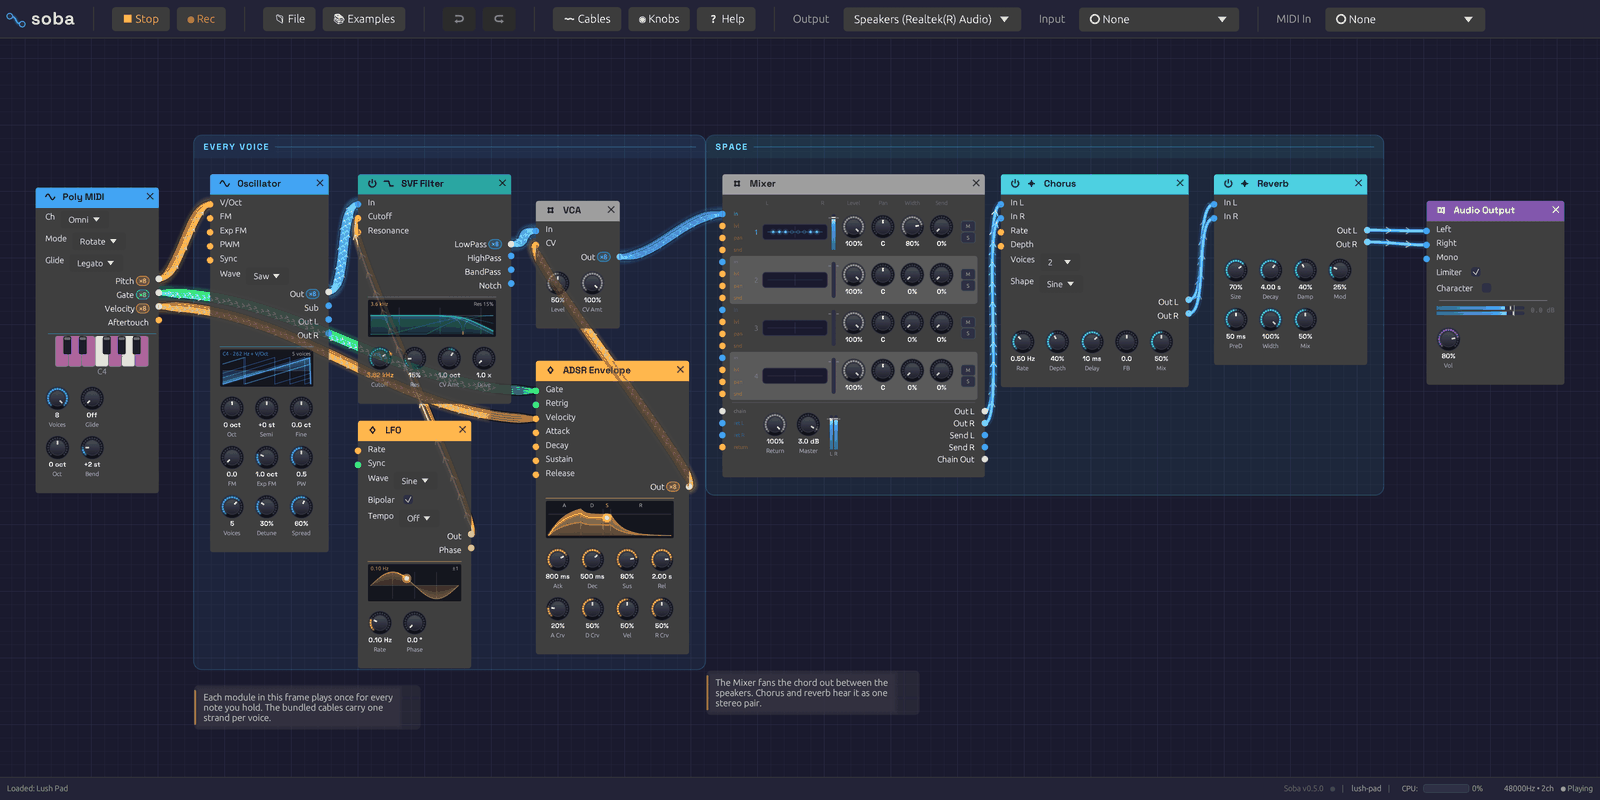
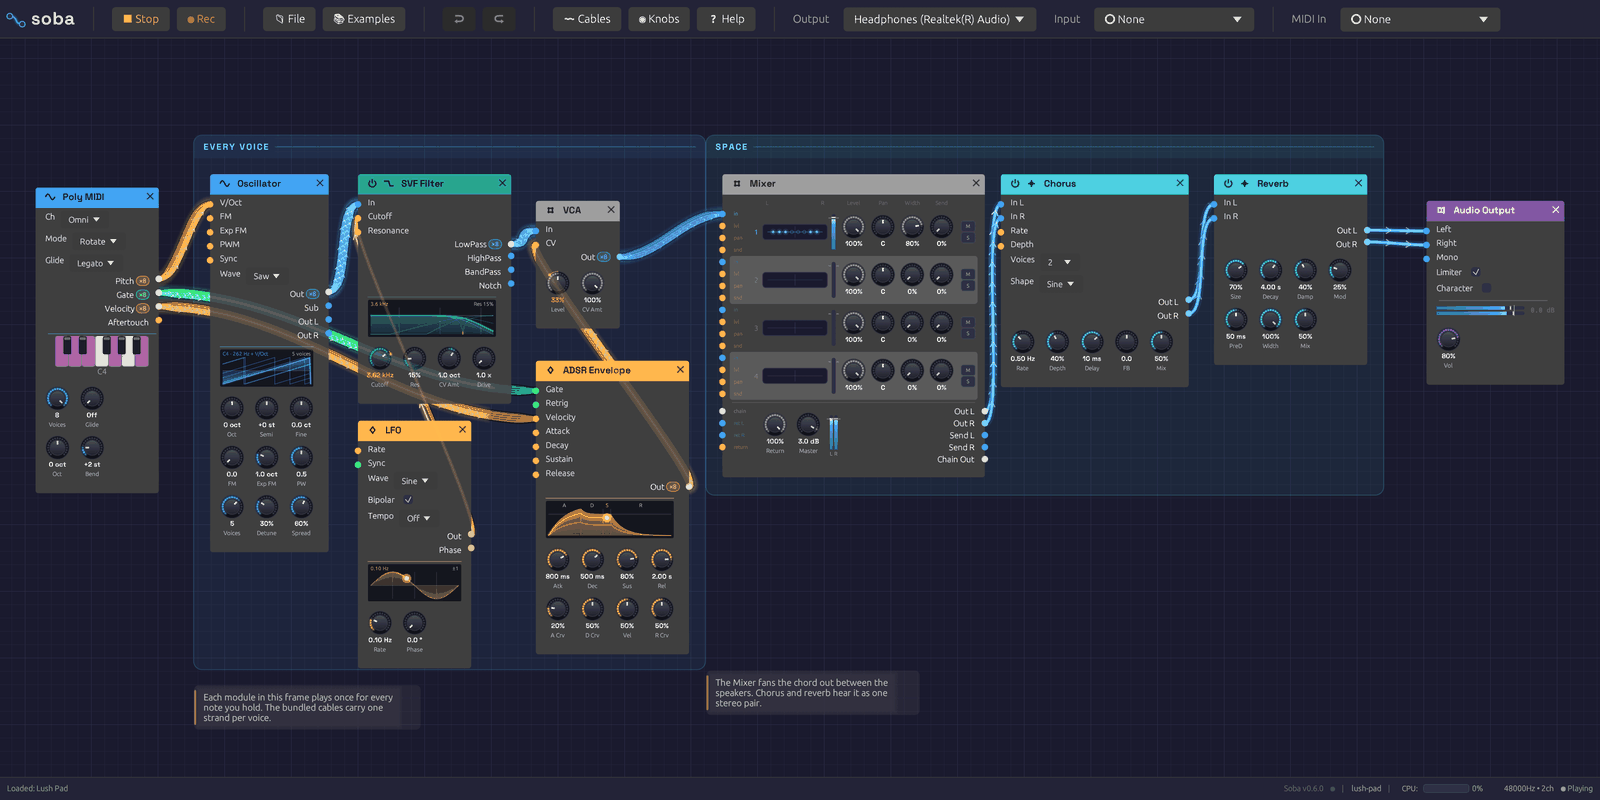
[Phase 14] Knobs show CV that arrives through a jack of another name
- knob_cv::jack names the jack a knob's CV comes through when it isn't
  the knob's own: VCA Level (CV), Oscillator Pulse Width (PWM), and Drum
  Tone and Snap (Accent: a soft hit is darker and less snappy)
- New laws: Gain/GainBy (the VCA's level * (1 - amt + amt * cv)) and Dim
  (the drum's tone - 0.25 * (1 - accent)); a test checks each against
  drum.rs's own Voicing
- engine_sync monitors a ConnectionOnly jack whenever a knob's law names
  it, so the knob gets the arc, bead, swath and orange readout
- Audited the rest: V/Oct, FM depths and ADSR Velocity Amount scale or
  pick rather than move a knob, so they stay as they are
- Manual: VCA, Oscillator and Drum pages say what the knob shows; VCA
  module image re-shot with an envelope holding a note; two recipe and
  three interface pictures re-shot

Closes #221

Claude-Session: https://claude.ai/code/session_01V5ZeoupduMHGPK9n9JSG9z

diff --git a/src/graph/knob_cv.rs b/src/graph/knob_cv.rs
@@ -9,6 +9,10 @@
 //! Most laws are a line of arithmetic, copied from the module's process loop
 //! (each entry names the line it mirrors). A module that already reports what
 //! CV has made of a parameter is read instead.
+//!
+//! A knob's CV usually comes in through its own jack, but not always: a VCA's
+//! CV jack scales its Level, an Oscillator's PWM jack moves its Pulse Width.
+//! [`jack`] names those, and the engine watches them for the knob's sake.
 
 use egui_node_graph2::NodeId;
 
@@ -31,6 +35,13 @@ pub enum CvLaw {
     OctavesBy(&'static str),
     /// `base * (1 + scale * cv)`
     Stretch { scale: f32 },
+    /// `base * (1 - amount + amount * cv)`, `cv` held to 0..1: at 0 it takes
+    /// off `amount` of the knob, at 1 none of it
+    Gain { amount: f32 },
+    /// `Gain`, the amount set by another knob: a VCA's CV Amount
+    GainBy(&'static str),
+    /// `base - by * (1 - cv)`, `cv` held to 0..1: at 0 it takes `by` off
+    Dim { by: f32 },
     /// The module reports it, at this place in its readout
     Readout(usize),
 }
@@ -65,6 +76,22 @@ pub fn law(module_id: &str, param: &str) -> Option<CvLaw> {
         ("fx.chorus", "Depth") => Add { scale: 0.5 },
         ("fx.tape", "Wow") => Add { scale: 1.0 },
         ("fx.vocoder", "Formant") => Readout(Vocoder::READOUT_FORMANT),
+        // Knobs whose CV comes through another jack (see `jack`)
+        ("util.vca", "Level") => GainBy("CV Amount"),      // vca.rs: level * (1 - amt + cv * amt)
+        ("osc.sine", "Pulse Width") => Add { scale: 0.4 }, // oscillator.rs: width + 0.4 pwm
+        // drum.rs Voicing::new: a softer hit is darker and less snappy
+        ("source.drum", "Tone") => Dim { by: 0.25 },
+        ("source.drum", "Snap") => Gain { amount: 0.5 },
+        _ => return None,
+    })
+}
+
+/// The jack a knob's CV comes through, when it isn't the knob's own.
+pub fn jack(module_id: &str, param: &str) -> Option<&'static str> {
+    Some(match (module_id, param) {
+        ("util.vca", "Level") => "CV",
+        ("osc.sine", "Pulse Width") => "PWM",
+        ("source.drum", "Tone" | "Snap") => "Accent",
         _ => return None,
     })
 }
@@ -85,11 +112,19 @@ pub fn effective(
         CvLaw::Octaves => base * cv.exp2(),
         CvLaw::OctavesBy(depth) => base * (cv * super::clock_display::number(graph, node_id, depth)?).exp2(),
         CvLaw::Stretch { scale } => base * (1.0 + scale * cv),
+        CvLaw::Gain { amount } => gain(base, amount, cv),
+        CvLaw::GainBy(amount) => gain(base, super::clock_display::number(graph, node_id, amount)?, cv),
+        CvLaw::Dim { by } => base - by * (1.0 - cv.clamp(0.0, 1.0)),
         CvLaw::Readout(index) => {
             let engine_id = user_state.get_engine_node_id(node_id)?;
             user_state.readouts.get(&engine_id)?.values[index]
         }
     })
+}
+
+/// `base * (1 - amount + amount * cv)`, `cv` held to 0..1.
+fn gain(base: f32, amount: f32, cv: f32) -> f32 {
+    base * (1.0 - amount + amount * cv.clamp(0.0, 1.0))
 }
 
 #[cfg(test)]
@@ -98,7 +133,7 @@ mod tests {
     use crate::dsp::Readout;
     use crate::graph::node_data::KnobInputMode;
     use crate::graph::{create_editor_state, AllNodeTemplates, SynthNodeTemplate, SynthValueType};
-    use egui_node_graph2::{NodeTemplateIter, NodeTemplateTrait};
+    use egui_node_graph2::{InputParamKind, NodeTemplateIter, NodeTemplateTrait};
 
     /// The value of a node's Number parameter `name`.
     fn base(graph: &SynthGraph, node_id: NodeId, name: &str) -> f32 {
@@ -168,6 +203,56 @@ mod tests {
             *value = -2.0;
         }
         assert!((cutoff(&graph) - 250.0).abs() < 0.01, "two octaves down with the depth turned negative");
+    }
+
+    #[test]
+    fn every_jack_named_is_on_its_module_with_a_law() {
+        // A misspelt jack would leave its knob showing nothing, silently
+        let mut user_state = SynthGraphState::new();
+        let mut named = 0;
+        for template in AllNodeTemplates.all_kinds() {
+            let data = template.user_data(&mut user_state);
+            let (graph, _, node_id) = one(data.module_id);
+            for knob in &data.knob_params {
+                let Some(jack) = jack(data.module_id, &knob.param_name) else { continue };
+                named += 1;
+                let input = graph[node_id].inputs.iter().find(|(name, _)| name == jack);
+                let is_jack = input.is_some_and(|(_, id)| matches!(graph.get_input(*id).kind, InputParamKind::ConnectionOnly));
+                assert!(is_jack, "{} has no {jack} jack for {}", data.module_id, knob.param_name);
+                assert!(law(data.module_id, &knob.param_name).is_some(), "{} {} has a jack but no law", data.module_id, knob.param_name);
+            }
+        }
+        assert!(named >= 4, "the VCA's, the Oscillator's and the Drum's at least");
+    }
+
+    #[test]
+    fn a_vca_level_follows_its_cv_by_the_cv_amount() {
+        let (mut graph, user_state, node_id) = one("util.vca");
+        let level = |graph: &SynthGraph, cv| effective("util.vca", "Level", 0.8, cv, node_id, graph, &user_state).unwrap();
+        assert_eq!(base(&graph, node_id, "CV Amount"), 1.0);
+        assert!((level(&graph, 0.5) - 0.4).abs() < 1e-6, "at full amount the CV scales the level");
+        assert_eq!(level(&graph, 1.5), 0.8, "CV above 1 opens it no further");
+        assert_eq!(level(&graph, -1.0), 0.0, "nor below 0 closes it further");
+
+        let (_, amount) = *graph[node_id].inputs.iter().find(|(name, _)| name == "CV Amount").unwrap();
+        if let SynthValueType::Number { value, .. } = &mut graph.inputs[amount].value {
+            *value = 0.25;
+        }
+        assert!((level(&graph, 0.0) - 0.6).abs() < 1e-6, "a quarter amount takes off a quarter at most");
+    }
+
+    #[test]
+    fn a_soft_drum_hit_is_darker_and_less_snappy() {
+        // As drum.rs voices it
+        use crate::modules::drum::{DrumType, Strike, Voicing};
+        let (graph, user_state, node_id) = one("source.drum");
+        let at = |param, base, cv| effective("source.drum", param, base, cv, node_id, &graph, &user_state).unwrap();
+        for accent in [0.0, 0.3, 1.0] {
+            let strike = Strike { tone: 0.6, snap: 0.8, accent, ..Strike::default() };
+            let voicing = Voicing::new(DrumType::Kick, strike);
+            assert!((at("Tone", 0.6, accent) - voicing.tone).abs() < 1e-6, "tone at accent {accent}");
+            assert!((at("Snap", 0.8, accent) - voicing.snap).abs() < 1e-6, "snap at accent {accent}");
+        }
     }
 
     #[test]

diff --git a/src/graph/node_data.rs b/src/graph/node_data.rs
@@ -855,6 +855,14 @@ impl SynthNodeData {
                     None
                 };
 
+                // CV that reaches the knob through a jack of another name: a
+                // VCA's CV moving its Level. The knob stays the hand's to turn
+                let through_cv = super::knob_cv::jack(self.module_id, &knob_param.param_name)
+                    .and_then(|jack| node.inputs.iter().find(|(name, _)| name == jack))
+                    .filter(|(_, jack)| graph.iter_connections().any(|(input, _)| input == *jack))
+                    .and_then(|(_, jack)| super::port_mapping::input_port_index(graph, node_id, *jack))
+                    .and_then(|port| user_state.get_input_value(engine_node_id?, port));
+
                 // Get MIDI mapping info for this parameter
                 let midi_mapping = engine_node_id.and_then(|eid|
                     user_state.get_midi_mapping(eid, current_param_index));
@@ -891,10 +899,12 @@ impl SynthNodeData {
                         // Where the CV has carried a knob it modulates: the
                         // knob draws its way there, which says it's patched
                         // better than the dot does, so the dot gives way
-                        let modulated = match (&input.value, signal_value) {
-                            (SynthValueType::Number { value, .. }, Some(cv))
-                                if knob_param.input_mode == KnobInputMode::Modulatable && takeover.is_none() =>
-                            {
+                        let cv = match knob_param.input_mode {
+                            KnobInputMode::Modulatable => signal_value,
+                            _ => through_cv,
+                        };
+                        let modulated = match (&input.value, cv) {
+                            (SynthValueType::Number { value, .. }, Some(cv)) if takeover.is_none() => {
                                 super::knob_cv::effective(self.module_id, &knob_param.param_name, *value, cv, node_id, graph, user_state)
                             }
                             _ => None,

diff --git a/src/app/engine_sync.rs b/src/app/engine_sync.rs
@@ -16,7 +16,7 @@ use std::collections::{BTreeMap, HashMap};
 use egui_node_graph2::{InputId, NodeId};
 
 use crate::engine::{EngineCommand, NodeId as EngineNodeId};
-use crate::graph::{groups, port_mapping, SynthGraph, SynthGraphState};
+use crate::graph::{groups, knob_cv, port_mapping, SynthGraph, SynthGraphState};
 
 /// Commands that create a node's module and start monitoring the outputs it
 /// shows (LEDs, lit ports, displays). Parameter values follow with the next
@@ -87,7 +87,8 @@ pub fn leaf_cables(graph: &SynthGraph, user_state: &SynthGraphState) -> LeafCabl
         .collect()
 }
 
-/// Whether an input is an exposed parameter (both a jack and a knob).
+/// Whether a knob follows an input: an exposed parameter (both a jack and a
+/// knob), or a jack another knob takes its CV through (a VCA's CV moves Level).
 fn is_exposed(graph: &SynthGraph, input: InputId) -> bool {
     let Some(node) = graph.inputs.get(input).and_then(|i| graph.nodes.get(i.node)) else {
         return false;
@@ -95,7 +96,11 @@ fn is_exposed(graph: &SynthGraph, input: InputId) -> bool {
     let Some((name, _)) = node.inputs.iter().find(|(_, id)| *id == input) else {
         return false;
     };
-    node.user_data.knob_params.iter().any(|kp| kp.param_name == *name && kp.has_input_port())
+    let data = &node.user_data;
+    data.knob_params.iter().any(|kp| {
+        (kp.param_name == *name && kp.has_input_port())
+            || knob_cv::jack(data.module_id, &kp.param_name) == Some(name.as_str())
+    })
 }
 
 /// Brings the engine's cables in line with the graph's, and returns the

diff --git a/src/app/undo.rs b/src/app/undo.rs
@@ -1236,6 +1236,16 @@ mod tests {
         let (undone, redone) = round_trip(&mut rig, |rig| rig.connect(osc, "Out", filter, "Cutoff"));
         assert_eq!(count(&undone.commands, |c| matches!(c, EngineCommand::UnmonitorInput { .. })), 1);
         assert_eq!(count(&redone.commands, |c| matches!(c, EngineCommand::MonitorInput { .. })), 1);
+
+        // So does one into a jack a knob of another name follows: PWM moves Pulse Width
+        let lfo = rig.add("mod.lfo", pos2(100.0, 400.0));
+        rig.record();
+        let (undone, redone) = round_trip(&mut rig, |rig| rig.connect(lfo, "Out", osc, "PWM"));
+        assert_eq!(count(&undone.commands, |c| matches!(c, EngineCommand::UnmonitorInput { .. })), 1);
+        assert_eq!(count(&redone.commands, |c| matches!(c, EngineCommand::MonitorInput { .. })), 1);
+        // But not into one no knob follows
+        let (_, redone) = round_trip(&mut rig, |rig| rig.connect(lfo, "Out", osc, "FM"));
+        assert_eq!(count(&redone.commands, |c| matches!(c, EngineCommand::MonitorInput { .. })), 0);
     }
 
     #[test]

diff --git a/src/graph/mod.rs b/src/graph/mod.rs
@@ -20,7 +20,7 @@ mod drum_display;
 mod envelope_cv;
 mod envelope_display;
 mod filter_display;
-mod knob_cv;
+pub mod knob_cv;
 mod lfo_display;
 mod logic_display;
 mod oscillator_display;

diff --git a/docs/src/modules/utilities/vca.md b/docs/src/modules/utilities/vca.md
@@ -3,7 +3,7 @@
 **Module ID** `util.vca` · **Category** Utility
 
 ![VCA Module](../../images/module-vca.png)
-*Level sets the ceiling; whatever arrives at CV opens the gate up to it.*
+*Level sets the ceiling; whatever arrives at CV opens the gate up to it. Here Level is at 80% and an envelope holds a note at 44%: the orange arc runs from the one down to the other.*
 
 A VCA (voltage-controlled amplifier) sets how loud a signal is, moment to moment, from a control signal. Patch an envelope into **CV** and a droning oscillator becomes a note that starts when you press a key and fades when you let go. Patch an LFO in instead and you have tremolo.
 
@@ -41,6 +41,8 @@ Out  = In × gain
 ```
 
 With **CV Amt** at 100% (the default), the gain is **Level** times the CV: silent at CV 0, full Level at CV 1. Lower **CV Amt** and the VCA never closes completely. At 50%, a CV of 0 leaves the signal at half Level, so the envelope or LFO only takes away half the volume. That's a quick way to get a gentle tremolo, or a note that dips rather than stops.
+
+While **CV** is patched, the **Level** knob shows the gain the VCA is running. An orange arc runs from where you set it down to a bead at the gain, and the number under the knob reads it in orange. Under an envelope, the bead falls back with each note, and a faint swath shows how far the notes have opened.
 
 The response is linear: a CV of 0.5 gives half the amplitude. Envelopes with curved stages (see [ADSR Envelope](../modulation/adsr.md)) give the fade its shape.
 

diff --git a/docs/src/modules/sources/drum.md b/docs/src/modules/sources/drum.md
@@ -60,7 +60,7 @@ The hats' six squares run all the time, as the 808's do. They are never caught a
 
 ## Accent
 
-**Accent** scales the hit's level, so at 0.4 it plays 8 to 10 dB quieter, and at 0 not at all. A softer hit is also darker and less snappy, as on a real drum: Tone drops by up to a quarter and Snap by up to half, and a soft kick falls a little less far in pitch. A ghost note on a snare is a different sound from a backbeat, not just a quieter one.
+**Accent** scales the hit's level, so at 0.4 it plays 8 to 10 dB quieter, and at 0 not at all. A softer hit is also darker and less snappy, as on a real drum: Tone drops by up to a quarter and Snap by up to half, and a soft kick falls a little less far in pitch. A ghost note on a snare is a different sound from a backbeat, not just a quieter one. While **Accent** is patched, the **Tone** and **Snap** knobs show this. An orange arc on each runs out to a bead at what the Accent makes of it, and the number under the knob reads that value in orange.
 
 ## Choke
 

diff --git a/docs/src/modules/sources/oscillator.md b/docs/src/modules/sources/oscillator.md
@@ -141,6 +141,8 @@ With the square wave selected, modulate the pulse width with an LFO:
 
 Slow rates give a chorus-like shimmer; fast rates, a more dramatic wobble in the tone.
 
+The **PW** knob stays where you set it, as the centre of the sweep. An orange arc on its rim runs out to a bead at the width the oscillator is playing, and the number under it reads that width in orange.
+
 ## Patch examples
 
 ### Sync lead
